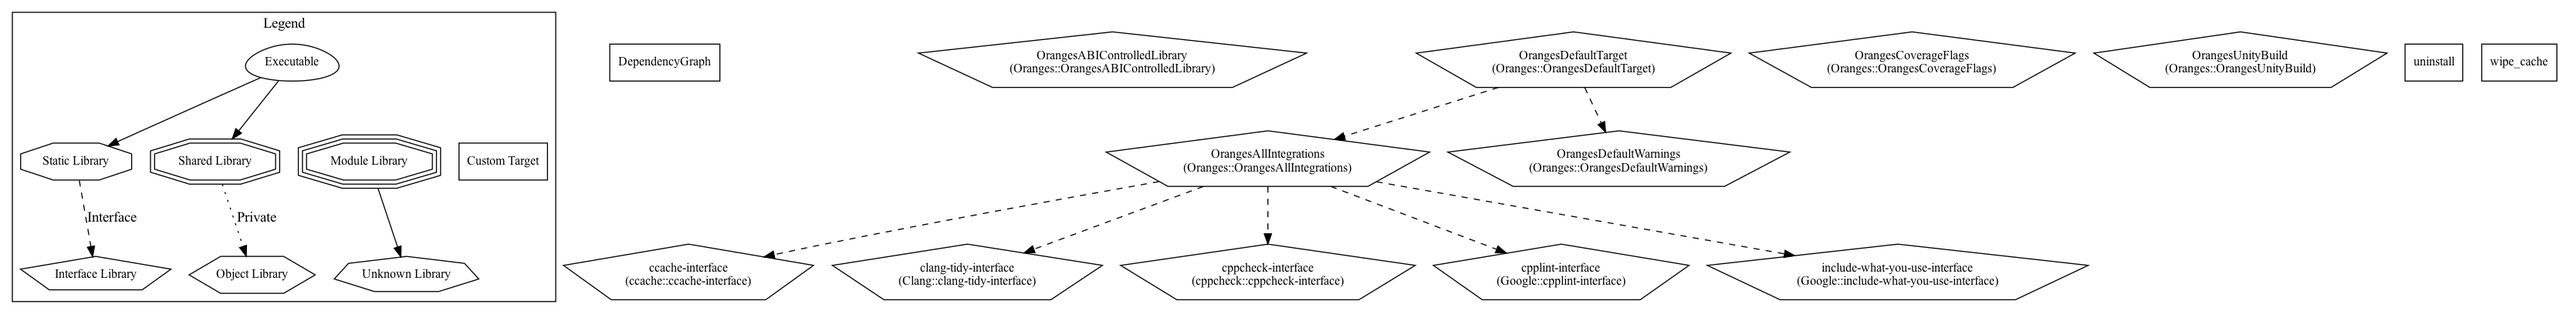
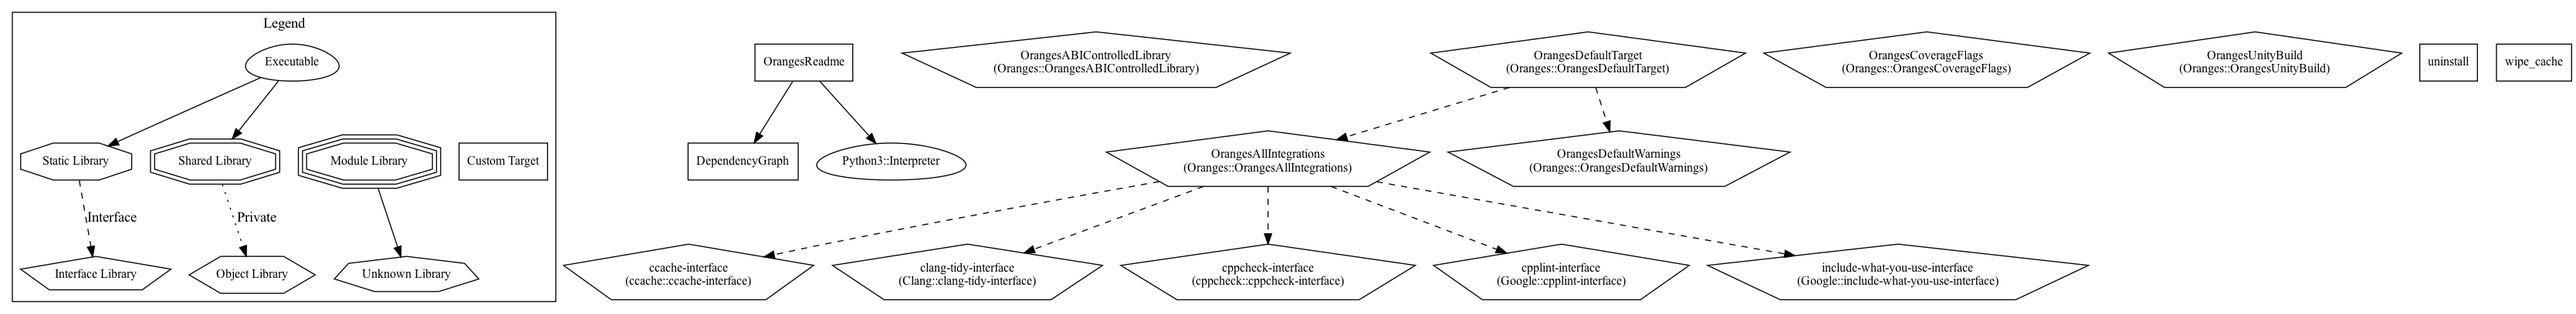
style: added a CMake target to update the readme with the list of modules
Precommit-Verified: 77829d3dc2757b736277ad255741ba6354b21159c665ac9e43500d7c758d9a8a

diff --git a/scripts/update_readme.py b/scripts/update_readme.py
@@ -1,0 +1,66 @@
+#!/usr/bin/env python3
+# -*- coding: utf-8 -*-
+""" Simple script that inserts the list of CMake modules (output by the help script) into the appropriate section of the readme.
+	This script is meant to be configured and invoked by CMake.
+"""
+
+# ======================================================================================
+#    ____  _____            _   _  _____ ______  _____
+#   / __ \|  __ \     /\   | \ | |/ ____|  ____|/ ____|
+#  | |  | | |__) |   /  \  |  \| | |  __| |__  | (___
+#  | |  | |  _  /   / /\ \ | . ` | | |_ |  __|  \___ \
+#  | |__| | | \ \  / ____ \| |\  | |__| | |____ ____) |
+#   \____/|_|  \_\/_/    \_\_| \_|\_____|______|_____/
+#
+#  This file is part of the Oranges open source CMake library and is licensed under the terms of the GNU Public License.
+#
+# ======================================================================================
+
+from typing import Final
+
+
+MODULE_LIST: Final[str] = "@modules_output@"
+README: Final[str] = "@readme@"
+
+MODULES_SECTION_START: Final[str] = "## What's here"
+MODULES_SECTION_END: Final[str] = "## Dependency graph"
+
+if __name__ == "__main__":
+	with open(README, "r", encoding="utf-8") as f:
+		README_LINES: Final[list[str]] = f.readlines()
+
+	stripped_lines: list[str] = []
+
+	inModulesSection: bool = False
+
+	for line in README_LINES:
+		if line.startswith(MODULES_SECTION_START):
+			inModulesSection = True  # pylint: disable=invalid-name
+			stripped_lines.append(line)
+			continue
+
+		if line.startswith(MODULES_SECTION_END):
+			inModulesSection = False  # pylint: disable=invalid-name
+			stripped_lines.append(line)
+			continue
+
+		if not inModulesSection:
+			stripped_lines.append(line)
+
+	del README_LINES
+	del inModulesSection
+
+	with open(MODULE_LIST, "r", encoding="utf-8") as f:
+		MODULE_LIST: Final[list[str]] = f.readlines()
+
+	output_lines: list[str] = []
+
+	for line in stripped_lines:
+		output_lines.append(line)
+
+		if line.startswith(MODULES_SECTION_START):
+			output_lines.extend(MODULE_LIST)
+			output_lines.append("\n")
+
+	with open(README, "w", encoding="utf-8") as f:
+		f.write("".join(output_lines))

diff --git a/README.md b/README.md
@@ -1,10 +1,126 @@
-# Oranges
+<!-- markdownlint-disable first-line-h1 -->
+<!-- editorconfig-checker-disable -->
+<!-- markdownlint-disable fenced-code-language -->
+```
+   ____  _____            _   _  _____ ______  _____
+  / __ \|  __ \     /\   | \ | |/ ____|  ____|/ ____|
+ | |  | | |__) |   /  \  |  \| | |  __| |__  | (___
+ | |  | |  _  /   / /\ \ | . ` | | |_ |  __|  \___ \
+ | |__| | | \ \  / ____ \| |\  | |__| | |____ ____) |
+  \____/|_|  \_\/_/    \_\_| \_|\_____|______|_____/
+```
+<!-- markdownlint-enable fenced-code-language -->
+<!-- editorconfig-checker-enable -->
 
 [![Create release](https://github.com/benthevining/Oranges/actions/workflows/release.yml/badge.svg)](https://github.com/benthevining/Oranges/actions/workflows/release.yml)
 [![pre-commit.ci status](https://results.pre-commit.ci/badge/github/benthevining/Oranges/main.svg)](https://results.pre-commit.ci/latest/github/benthevining/Oranges/main)
 [![semantic-release: conventionalcommits](https://img.shields.io/badge/semantic--release-conventionalcommits-e10079?logo=semantic-release)](https://github.com/semantic-release/semantic-release)
 
-A collection of CMake modules, scripts, and toolchains.
+A library of CMake modules, scripts, and toolchains.
+
+## What's here
+
+Oranges provides the following CMake modules:
+
+Code generation
+
+* OrangesGenerateBuildTypeHeader
+* OrangesGenerateExportHeader
+* OrangesGeneratePlatformHeader
+* OrangesGenerateStandardHeaders
+
+Dependencies
+
+* OrangesDownloadFile
+* OrangesFetchRepository
+* OrangesWipeCacheTarget
+* OrangesWrapAutotoolsProject
+
+Documentation
+
+* OrangesDocsBuildConfig
+* OrangesDoxygenConfig
+* OrangesGraphVizConfig
+
+General
+
+* LinuxLSBInfo
+* OrangesDefaultProjectSettings
+* OrangesFileUtils
+* OrangesListUtils
+
+Helper targets
+
+* OrangesAllIntegrations
+* OrangesCoverageFlags
+* OrangesDefaultTarget
+* OrangesDefaultWarnings
+* OrangesUnityBuild
+
+Installing
+
+* OrangesDefaultCPackSettings
+* OrangesDefaultInstallSettings
+* OrangesGeneratePkgConfig
+* OrangesInstallSystemLibs
+* OrangesSetDefaultCpackGenerator
+* OrangesUninstallTarget
+
+Juce
+
+* OrangesAppUtilities
+* OrangesAssetsHelpers
+* OrangesJuceModuleUtilities
+* OrangesJuceUtilities
+
+Plugins
+
+* CallForEachPluginFormat
+* OrangesAAXUtils
+* OrangesAddPrivateSDKs
+* OrangesClapFormat
+* OrangesCreateAAXSDKTarget
+* OrangesPluginUtilities
+
+Oranges provides the following find modules:
+
+Code signing
+
+* Findcodesign
+* Findwraptool
+
+Fftw
+
+* FindFFTW
+* Findfftw3
+* Findfftw3f
+
+Libs
+
+* FindAbletonLink
+* FindAccelerate
+* FindIPP
+* FindJUCE
+* FindMIPP
+* FindMTS-ESP
+
+Programs
+
+* Findccache
+* Finddot
+* Findxcodebuild
+
+Static analysis
+
+* Findclang-tidy
+* Findcppcheck
+* Findcpplint
+* Findinclude-what-you-use
+
+Testing
+
+* Findauval
+* Findpluginval
 
 ## Dependency graph
 
